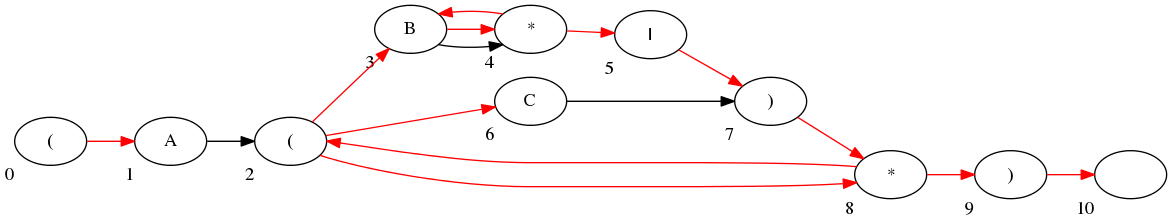
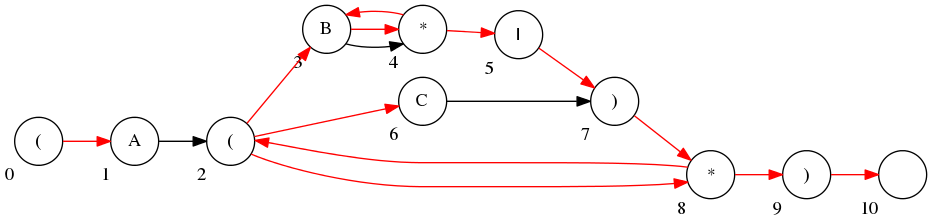
Refine

diff --git a/ch5/GREP.java b/ch5/GREP.java
@@ -1,62 +1,5 @@
 import edu.princeton.cs.algs4.*;
 
-/*
-#+BEGIN_SRC sh :results output
-make run CLASS=GREP ARGS='(A(B*|C)D)' <<EOF
-ABD
-ACB
-ABBD
-ABBBD
-ABCD
-EOF
-#+END_SRC
-
-#+RESULTS:
-: ABD
-: ABBD
-: ABBBD
-
-#+NAME: re1
-#+BEGIN_SRC sh :results output
-make run CLASS=GREP ARGS='(A(B*|C)*) dot' <<EOF
-EOF
-#+END_SRC
-
-#+BEGIN_SRC dot :file re1.png :var src=re1
-$src
-#+END_SRC
-
-#+RESULTS:
-[[file:re1.png]]
-
-#+NAME: re2
-#+BEGIN_SRC sh :results output
-make run CLASS=GREP ARGS='((A*B|AC)D) dot' <<EOF
-EOF
-#+END_SRC
-
-#+BEGIN_SRC dot :file re2.png :var src=re2
-$src
-#+END_SRC
-
-#+RESULTS:
-[[file:re2.png]]
-
-#+NAME: re3
-#+BEGIN_SRC sh :results output
-make run CLASS=GREP ARGS='((A|B|C)DE) dot' <<EOF
-EOF
-#+END_SRC
-
-#+BEGIN_SRC dot :file re3.png :var src=re3
-$src
-#+END_SRC
-
-#+RESULTS:
-[[file:re3.png]]
-
-*/
-
 public class GREP {
     public static void main(String[] args) {
         if (args.length == 0) {

diff --git a/ch5/RegExp.java b/ch5/RegExp.java
@@ -84,7 +84,7 @@ public class RegExp {
 
         for (int v = 0; v < G.V(); v++) {
             char ch = v < re.length ? re[v] : ' ';
-            sb.append("  " + v + " " + attrs(label(ch), xlabel(v)) + ";\n");
+            sb.append("  " + v + " " + attrs(label(ch), xlabel(v), shape("circle")) + ";\n");
         }
 
         for (int v = 0; v < G.V()-1; v++) {
@@ -137,5 +137,9 @@ public class RegExp {
 
     private String color(String c) {
         return "color=\"" + c + "\"";
+    }
+
+    private String shape(String s) {
+        return "shape=\"" + s + "\"";
     }
 }
